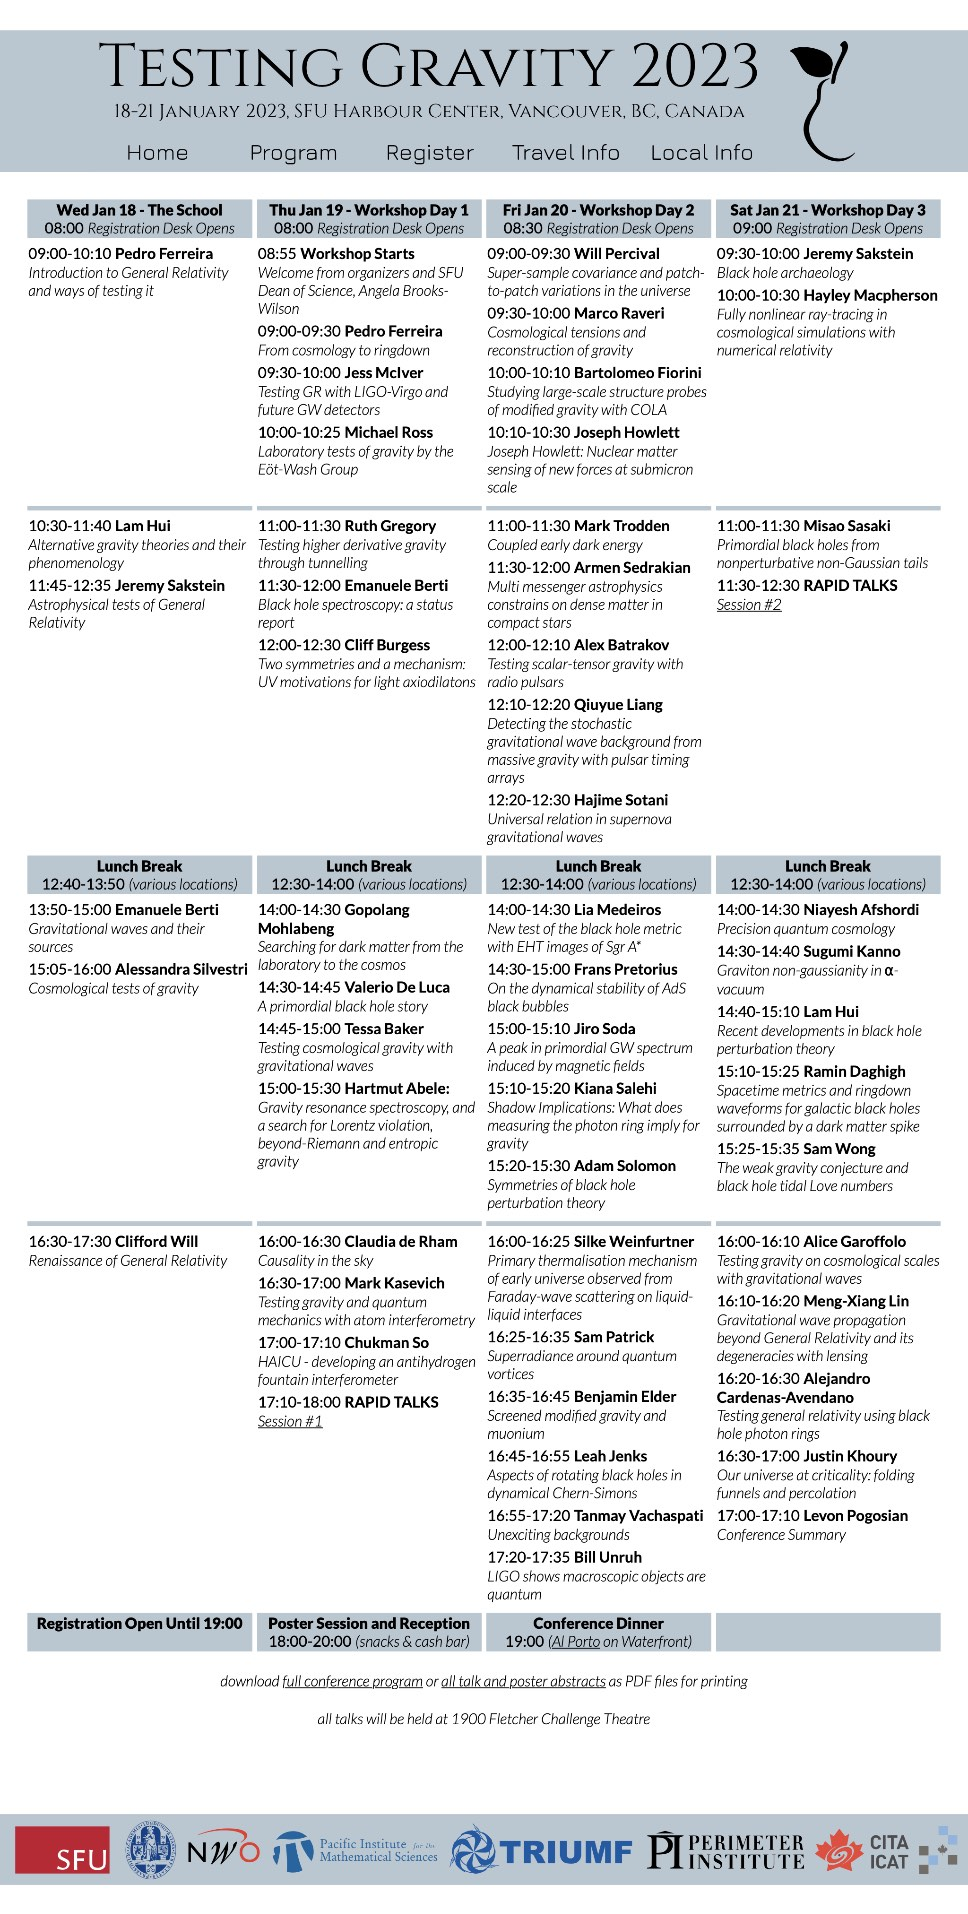
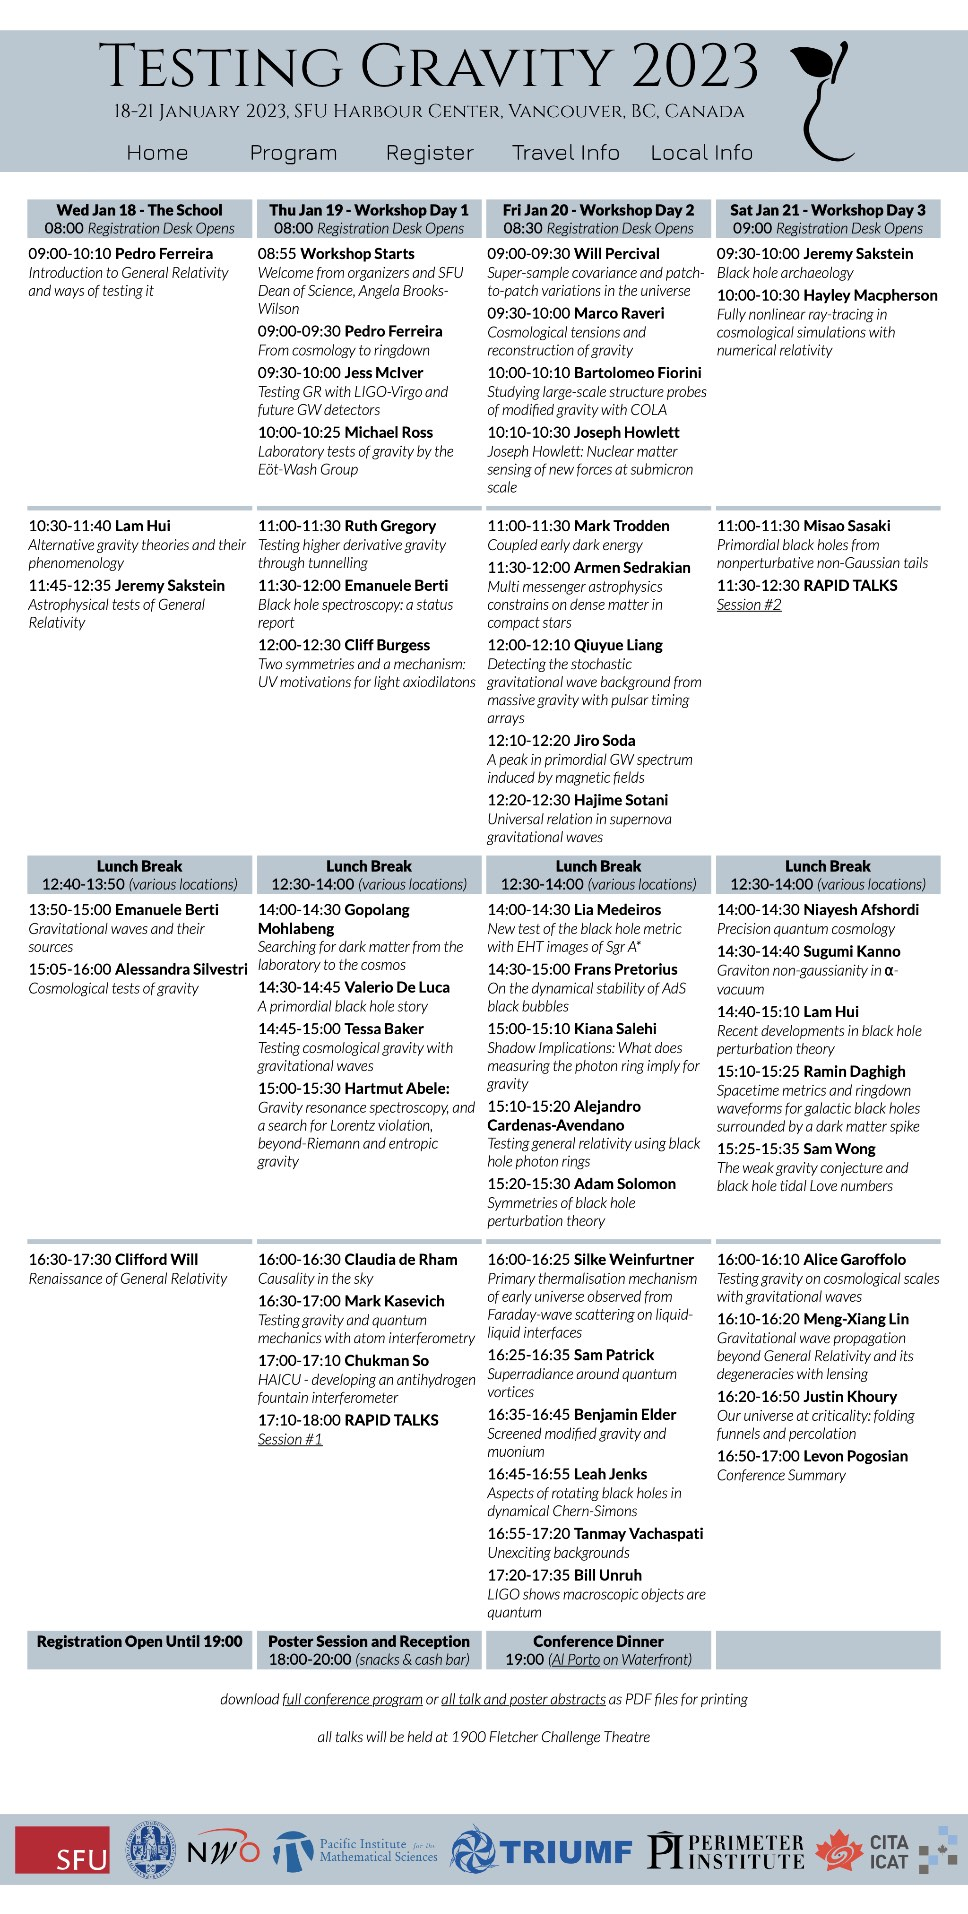
Program updated.

Changed region(s): [[0.031, 0.524, 0.9917, 0.9248], [0.4959, 0.3083, 0.7128, 0.4007]]

diff --git a/program/sessions.html b/program/sessions.html
@@ -71,10 +71,10 @@ a:hover, a:active { color: #FF2600 }
     <span class="title">Coupled early dark energy</span>
     <span class="time">11:30-12:00</span> <span class="speaker">Armen Sedrakian</span>
     <span class="title">Multi messenger astrophysics constrains on dense matter in compact stars</span>
-    <span class="time">12:00-12:10</span> <span class="speaker">Alex Batrakov</span>
-    <span class="title">Testing scalar-tensor gravity with radio pulsars</span>
-    <span class="time">12:10-12:20</span> <span class="speaker">Qiuyue Liang</span>
+    <span class="time">12:00-12:10</span> <span class="speaker">Qiuyue Liang</span>
     <span class="title">Detecting the stochastic gravitational wave background from massive gravity with pulsar timing arrays</span>
+    <span class="time">12:10-12:20</span> <span class="speaker">Jiro Soda</span>
+    <span class="title">A peak in primordial GW spectrum induced by magnetic fields</span>
     <span class="time">12:20-12:30</span> <span class="speaker">Hajime Sotani</span>
     <span class="title">Universal relation in supernova gravitational waves</span>
 <td><span class="time">11:00-11:30</span> <span class="speaker">Misao Sasaki</span>
@@ -109,10 +109,10 @@ a:hover, a:active { color: #FF2600 }
     <span class="title">New test of the black hole metric with EHT images of Sgr A*</span>
     <span class="time">14:30-15:00</span> <span class="speaker">Frans Pretorius</span>
     <span class="title">On the dynamical stability of AdS black bubbles</span>
-    <span class="time">15:00-15:10</span> <span class="speaker">Jiro Soda</span>
-    <span class="title">A peak in primordial GW spectrum induced by magnetic fields</span>
-    <span class="time">15:10-15:20</span> <span class="speaker">Kiana Salehi</span>
+    <span class="time">15:00-15:10</span> <span class="speaker">Kiana Salehi</span>
     <span class="title">Shadow Implications: What does measuring the photon ring imply for gravity</span>
+    <span class="time">15:10-15:20</span> <span class="speaker">Alejandro Cardenas-Avendano</span>
+    <span class="title">Testing general relativity using black hole photon rings</span>
     <span class="time">15:20-15:30</span> <span class="speaker">Adam Solomon</span>
     <span class="title">Symmetries of black hole perturbation theory</span>
 <td><span class="time">14:00-14:30</span> <span class="speaker">Niayesh Afshordi</span>
@@ -155,11 +155,9 @@ a:hover, a:active { color: #FF2600 }
     <span class="title">Testing gravity on cosmological scales with gravitational waves</span>
     <span class="time">16:10-16:20</span> <span class="speaker">Meng-Xiang Lin</span>
     <span class="title">Gravitational wave propagation beyond General Relativity and its degeneracies with lensing</span>
-    <span class="time">16:20-16:30</span> <span class="speaker">Alejandro Cardenas-Avendano</span>
-    <span class="title">Testing general relativity using black hole photon rings</span>
-    <span class="time">16:30-17:00</span> <span class="speaker">Justin Khoury</span>
+    <span class="time">16:20-16:50</span> <span class="speaker">Justin Khoury</span>
     <span class="title">Our universe at criticality: folding funnels and percolation</span>
-    <span class="time">17:00-17:10</span> <span class="speaker">Levon Pogosian</span>
+    <span class="time">16:50-17:00</span> <span class="speaker">Levon Pogosian</span>
     <span class="title">Conference Summary</span>
 
 

diff --git a/program/sessions FrSa.html b/program/sessions FrSa.html
@@ -47,10 +47,10 @@ a:hover, a:active { color: #FF2600 }
     <span class="title">Coupled early dark energy</span>
     <span class="time">11:30-12:00</span> <span class="speaker">Armen Sedrakian</span>
     <span class="title">Multi messenger astrophysics constrains on dense matter in compact stars</span>
-    <span class="time">12:00-12:10</span> <span class="speaker">Alex Batrakov</span>
-    <span class="title">Testing scalar-tensor gravity with radio pulsars</span>
-    <span class="time">12:10-12:20</span> <span class="speaker">Qiuyue Liang</span>
+    <span class="time">12:00-12:10</span> <span class="speaker">Qiuyue Liang</span>
     <span class="title">Detecting the stochastic gravitational wave background from massive gravity with pulsar timing arrays</span>
+    <span class="time">12:10-12:20</span> <span class="speaker">Jiro Soda</span>
+    <span class="title">A peak in primordial GW spectrum induced by magnetic fields</span>
     <span class="time">12:20-12:30</span> <span class="speaker">Hajime Sotani</span>
     <span class="title">Universal relation in supernova gravitational waves</span>
 <td><span class="time">11:00-11:30</span> <span class="speaker">Misao Sasaki</span>
@@ -69,10 +69,10 @@ a:hover, a:active { color: #FF2600 }
     <span class="title">New test of the black hole metric with EHT images of Sgr A*</span>
     <span class="time">14:30-15:00</span> <span class="speaker">Frans Pretorius</span>
     <span class="title">On the dynamical stability of AdS black bubbles</span>
-    <span class="time">15:00-15:10</span> <span class="speaker">Jiro Soda</span>
-    <span class="title">A peak in primordial GW spectrum induced by magnetic fields</span>
-    <span class="time">15:10-15:20</span> <span class="speaker">Kiana Salehi</span>
+    <span class="time">15:00-15:10</span> <span class="speaker">Kiana Salehi</span>
     <span class="title">Shadow Implications: What does measuring the photon ring imply for gravity</span>
+    <span class="time">15:10-15:20</span> <span class="speaker">Alejandro Cardenas-Avendano</span>
+    <span class="title">Testing general relativity using black hole photon rings</span>
     <span class="time">15:20-15:30</span> <span class="speaker">Adam Solomon</span>
     <span class="title">Symmetries of black hole perturbation theory</span>
 <td><span class="time">14:00-14:30</span> <span class="speaker">Niayesh Afshordi</span>
@@ -105,11 +105,9 @@ a:hover, a:active { color: #FF2600 }
     <span class="title">Testing gravity on cosmological scales with gravitational waves</span>
     <span class="time">16:10-16:20</span> <span class="speaker">Meng-Xiang Lin</span>
     <span class="title">Gravitational wave propagation beyond General Relativity and its degeneracies with lensing</span>
-    <span class="time">16:20-16:30</span> <span class="speaker">Alejandro Cardenas-Avendano</span>
-    <span class="title">Testing general relativity using black hole photon rings</span>
-    <span class="time">16:30-17:00</span> <span class="speaker">Justin Khoury</span>
+    <span class="time">16:20-16:50</span> <span class="speaker">Justin Khoury</span>
     <span class="title">Our universe at criticality: folding funnels and percolation</span>
-    <span class="time">17:00-17:10</span> <span class="speaker">Levon Pogosian</span>
+    <span class="time">16:50-17:00</span> <span class="speaker">Levon Pogosian</span>
     <span class="title">Conference Summary</span>
 
 
